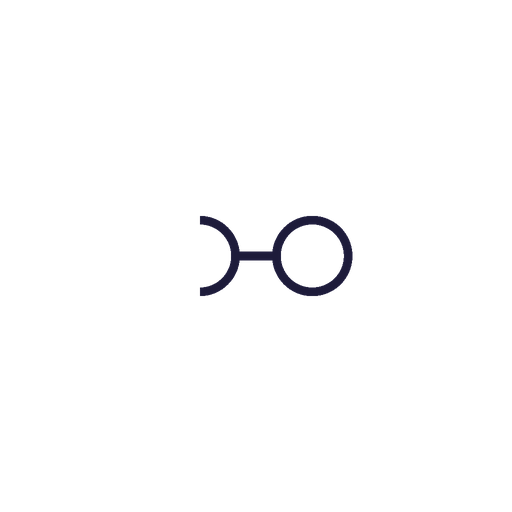
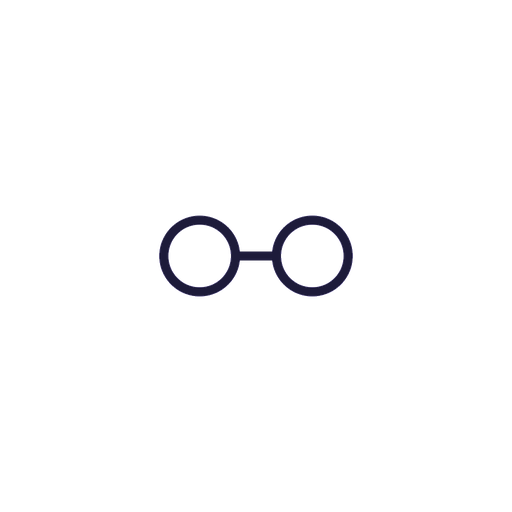
fix(detak): complete glasses/bow overlays via diff-based extraction

diff --git a/tools/detak_build.py b/tools/detak_build.py
@@ -23,7 +23,6 @@ from pathlib import Path
 
 import numpy as np
 from PIL import Image
-from scipy import ndimage
 
 SRC = Path.home() / "workspace/detak-assets/raga-characters/detak"
 OUT = Path.home() / "workspace/raga/assets/images/detak"
@@ -155,33 +154,22 @@ def main() -> int:
         ov[m] = arr[m]
         save(ov, f"detak_tunas_{stage}.png")
 
-    # ---- glasses overlay: keep hollow frame rings, drop solid eye dots ----
+    # ---- glasses overlay: diff vs the neutral lavender base.
+    # Geometry is pixel-identical, so changed pixels are the frames only
+    # (the hollow rings leave the eyes untouched).
+    base = load("variants/warna-lavender.png")
     arr = load("variants/aksesori-kacamata.png")
-    H, L, S = rgb_to_hls(arr[..., :3])
-    region = (XX >= 400) & (XX <= 760) & (YY >= 430) & (YY <= 670)
-    navy = region & (arr[..., 3] > 16) & (L < 0.30) & (S > 0.15) \
-        & (H >= 220) & (H <= 265)
-    lab, n = ndimage.label(navy)
-    keep = np.zeros_like(navy)
-    for i in range(1, n + 1):
-        comp = lab == i
-        area = int(comp.sum())
-        if area < 500:
-            continue
-        ys, xs = np.where(comp)
-        bbox = (ys.max() - ys.min() + 1) * (xs.max() - xs.min() + 1)
-        if area / bbox < 0.5:  # hollow ring, not a solid eye dot
-            keep |= comp
-    print(f"glasses: kept {int(keep.sum())} px of {int(navy.sum())} navy px")
+    diff = np.abs(arr[..., :3] - base[..., :3]).sum(axis=-1)
+    keep = (arr[..., 3] > 16) & (diff > 30)
+    print(f"glasses: kept {int(keep.sum())} px")
     ov = np.zeros((1024, 1024, 4), dtype=np.float32)
     ov[keep] = arr[keep]
     save(ov, "detak_acc_kacamata.png")
 
-    # ---- bow overlay (pink, top region only — gauge has a red segment) ----
+    # ---- bow overlay: same diff trick (pink bow on the head) ----
     arr = load("variants/aksesori-pita.png")
-    H, L, S = rgb_to_hls(arr[..., :3])
-    pink = (arr[..., 3] > 16) & (S > 0.35) & (((H >= 295)) | ((H <= 15))) \
-        & (YY < 600)
+    diff = np.abs(arr[..., :3] - base[..., :3]).sum(axis=-1)
+    pink = (arr[..., 3] > 16) & (diff > 30)
     print(f"bow: {int(pink.sum())} px")
     ov = np.zeros((1024, 1024, 4), dtype=np.float32)
     ov[pink] = arr[pink]
